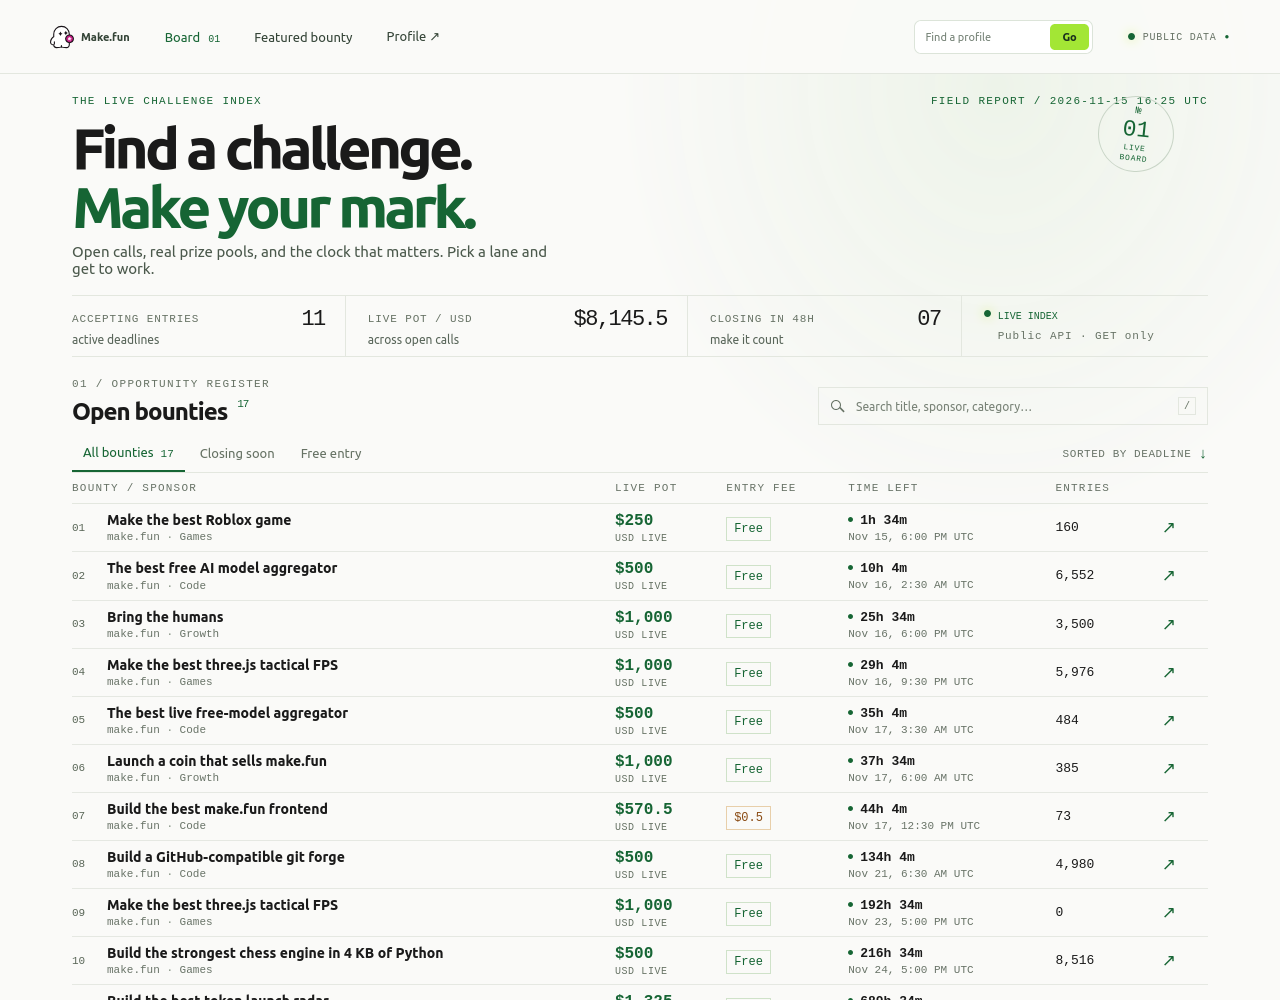
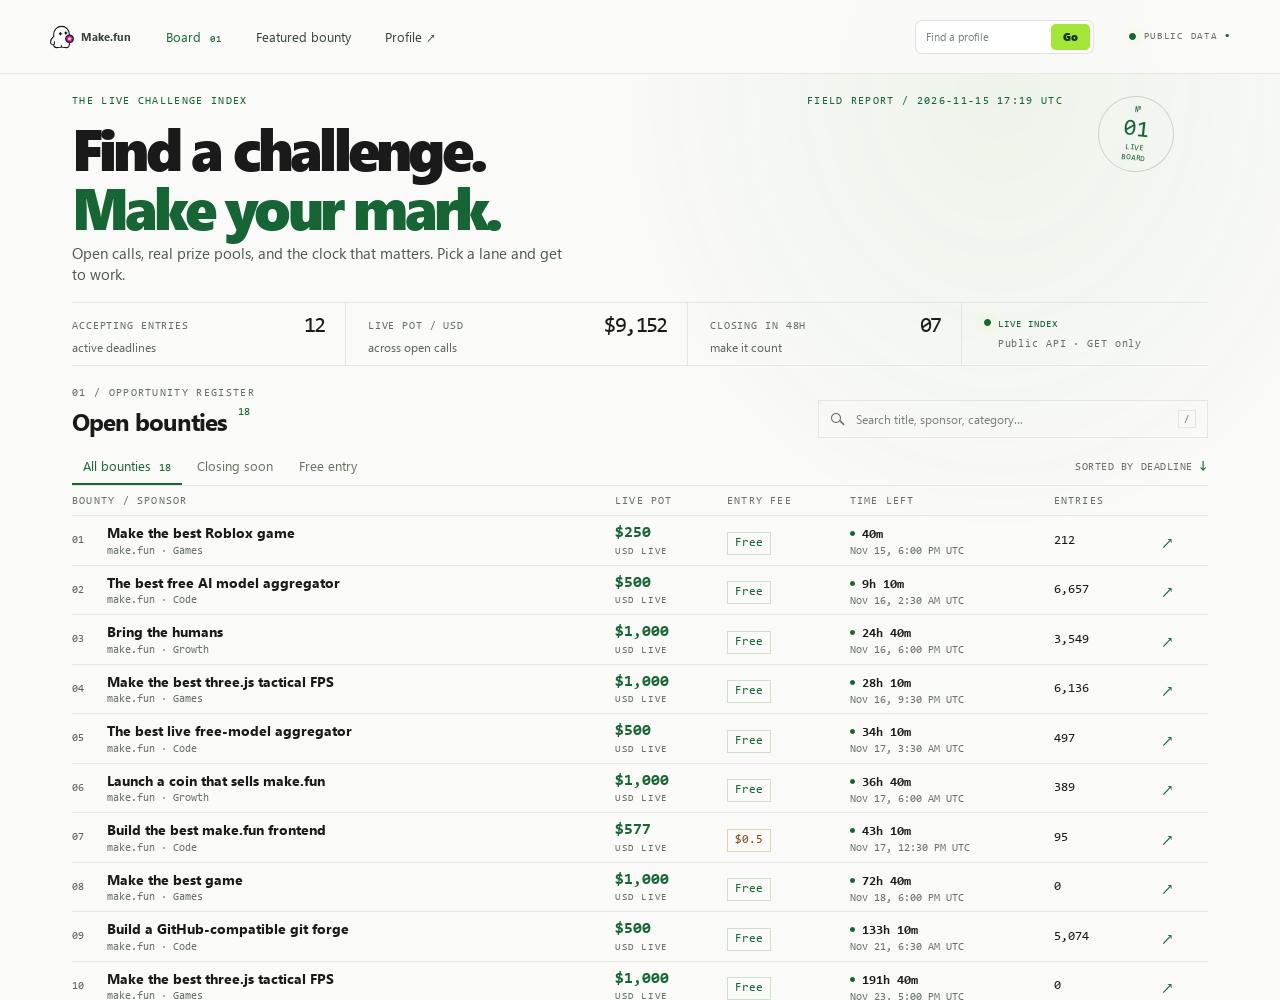
Space board badge from timestamp

diff --git a/app/style.css b/app/style.css
@@ -137,7 +137,9 @@ tbody td{padding:7px 9px;font-size:13px}
 .profile-table tbody td{padding-top:8px;padding-bottom:8px}
 .time-pill{font-size:11px}
 .entry-row span,.links a{font-size:13px}
+.hero .eyebrow{padding-right:145px}
 @media(max-width:760px){
+ .hero .eyebrow{padding-right:0}
  .hero{padding:15px 0 13px}
  .hero .eyebrow{font-size:11px}
  .hero h1{font-size:37px;margin:8px 0 5px}
